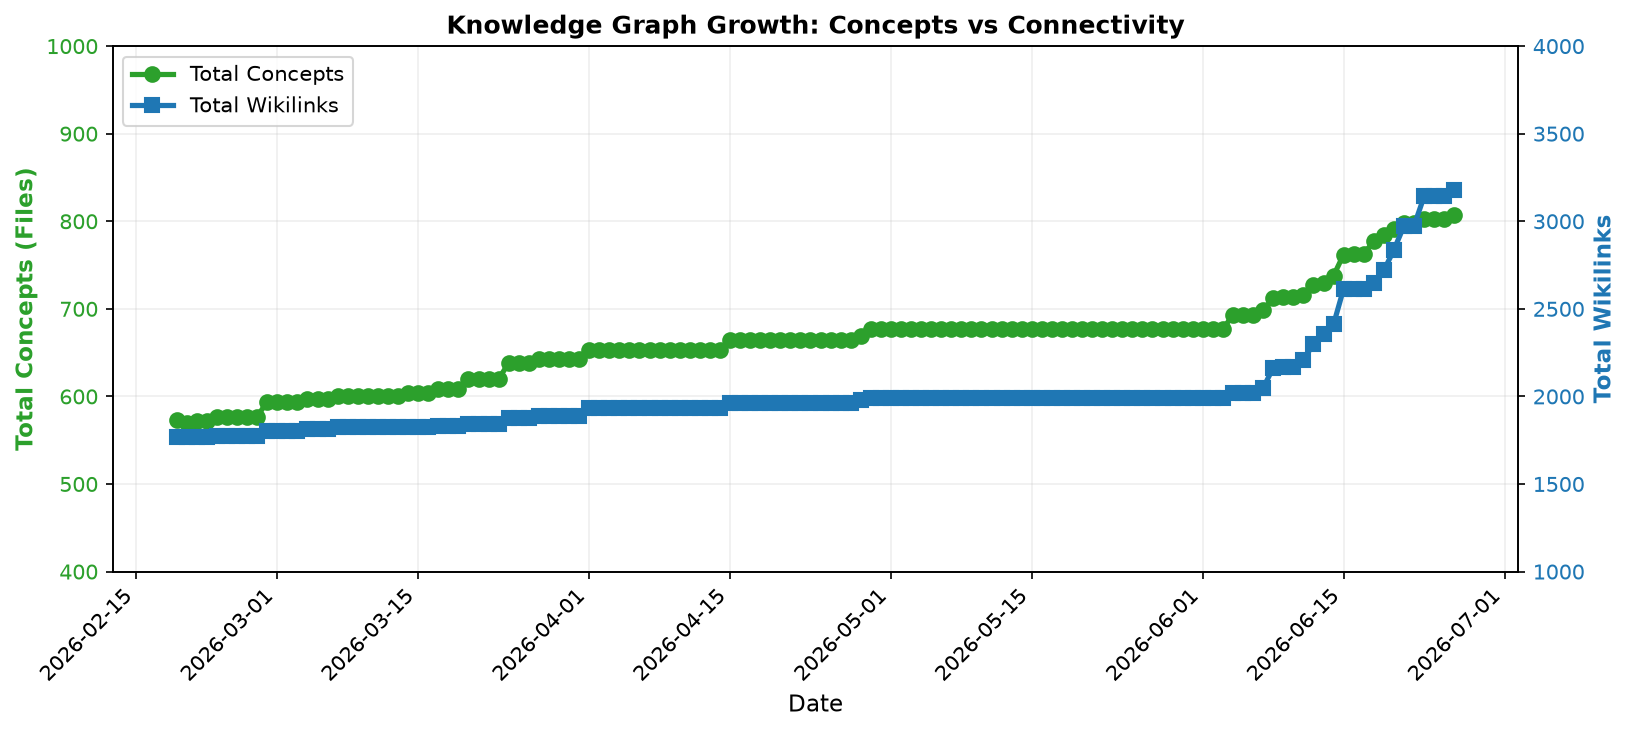
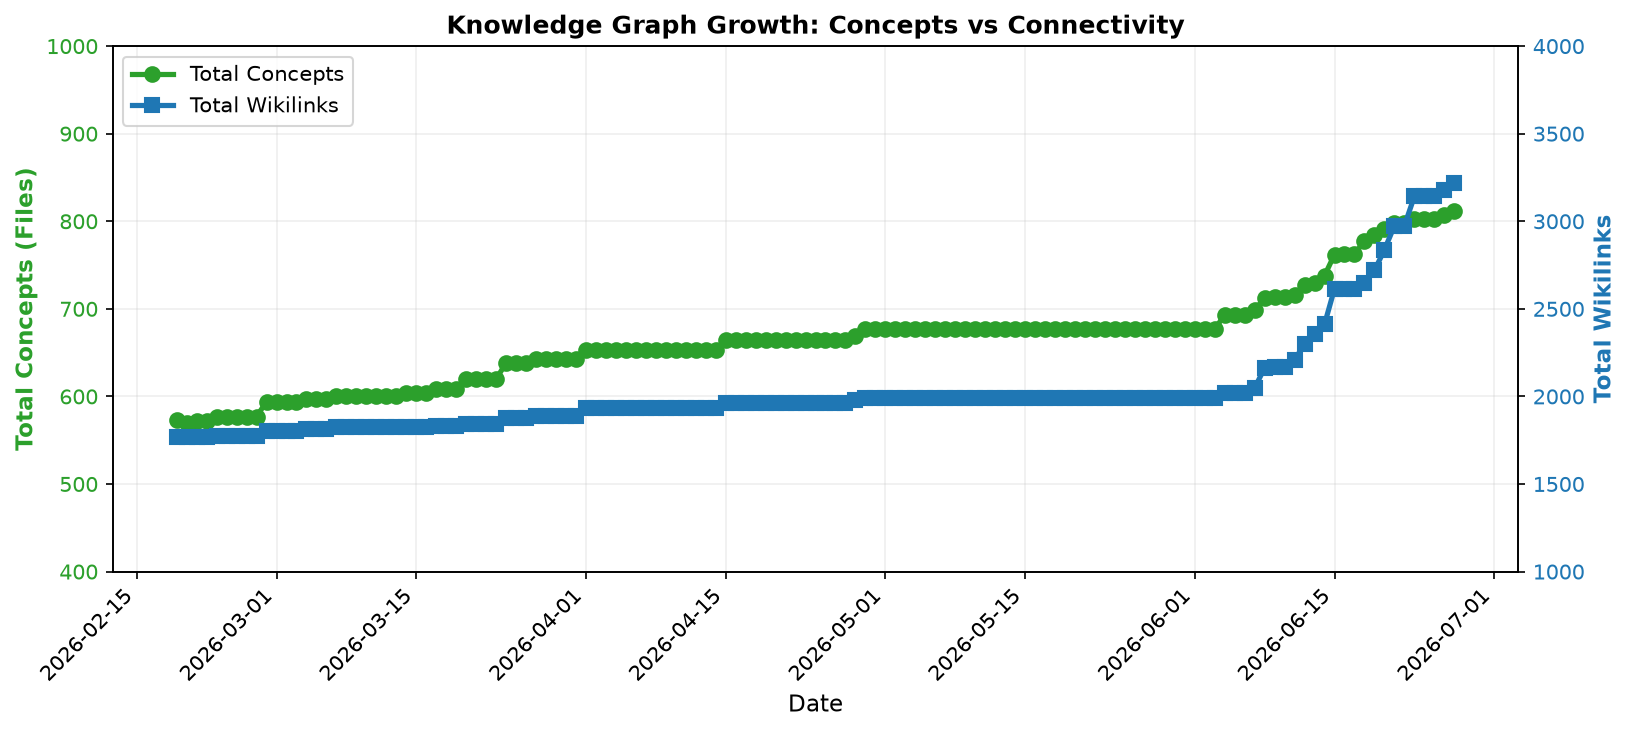
Update knowledge graph stats [skip ci]

diff --git a/README.md b/README.md
@@ -4,7 +4,7 @@
 
 ![Knowledge Glossary Growth](stats/chart.png)
 
-A personal knowledge graph containing **807 interconnected concepts** in data science, machine learning, and AI. Built as an [Obsidian](https://obsidian.md/) vault with typed relationships, this graph can serve as the foundation for a **data ontology**.
+A personal knowledge graph containing **812 interconnected concepts** in data science, machine learning, and AI. Built as an [Obsidian](https://obsidian.md/) vault with typed relationships, this graph can serve as the foundation for a **data ontology**.
 
 ## Structure
 